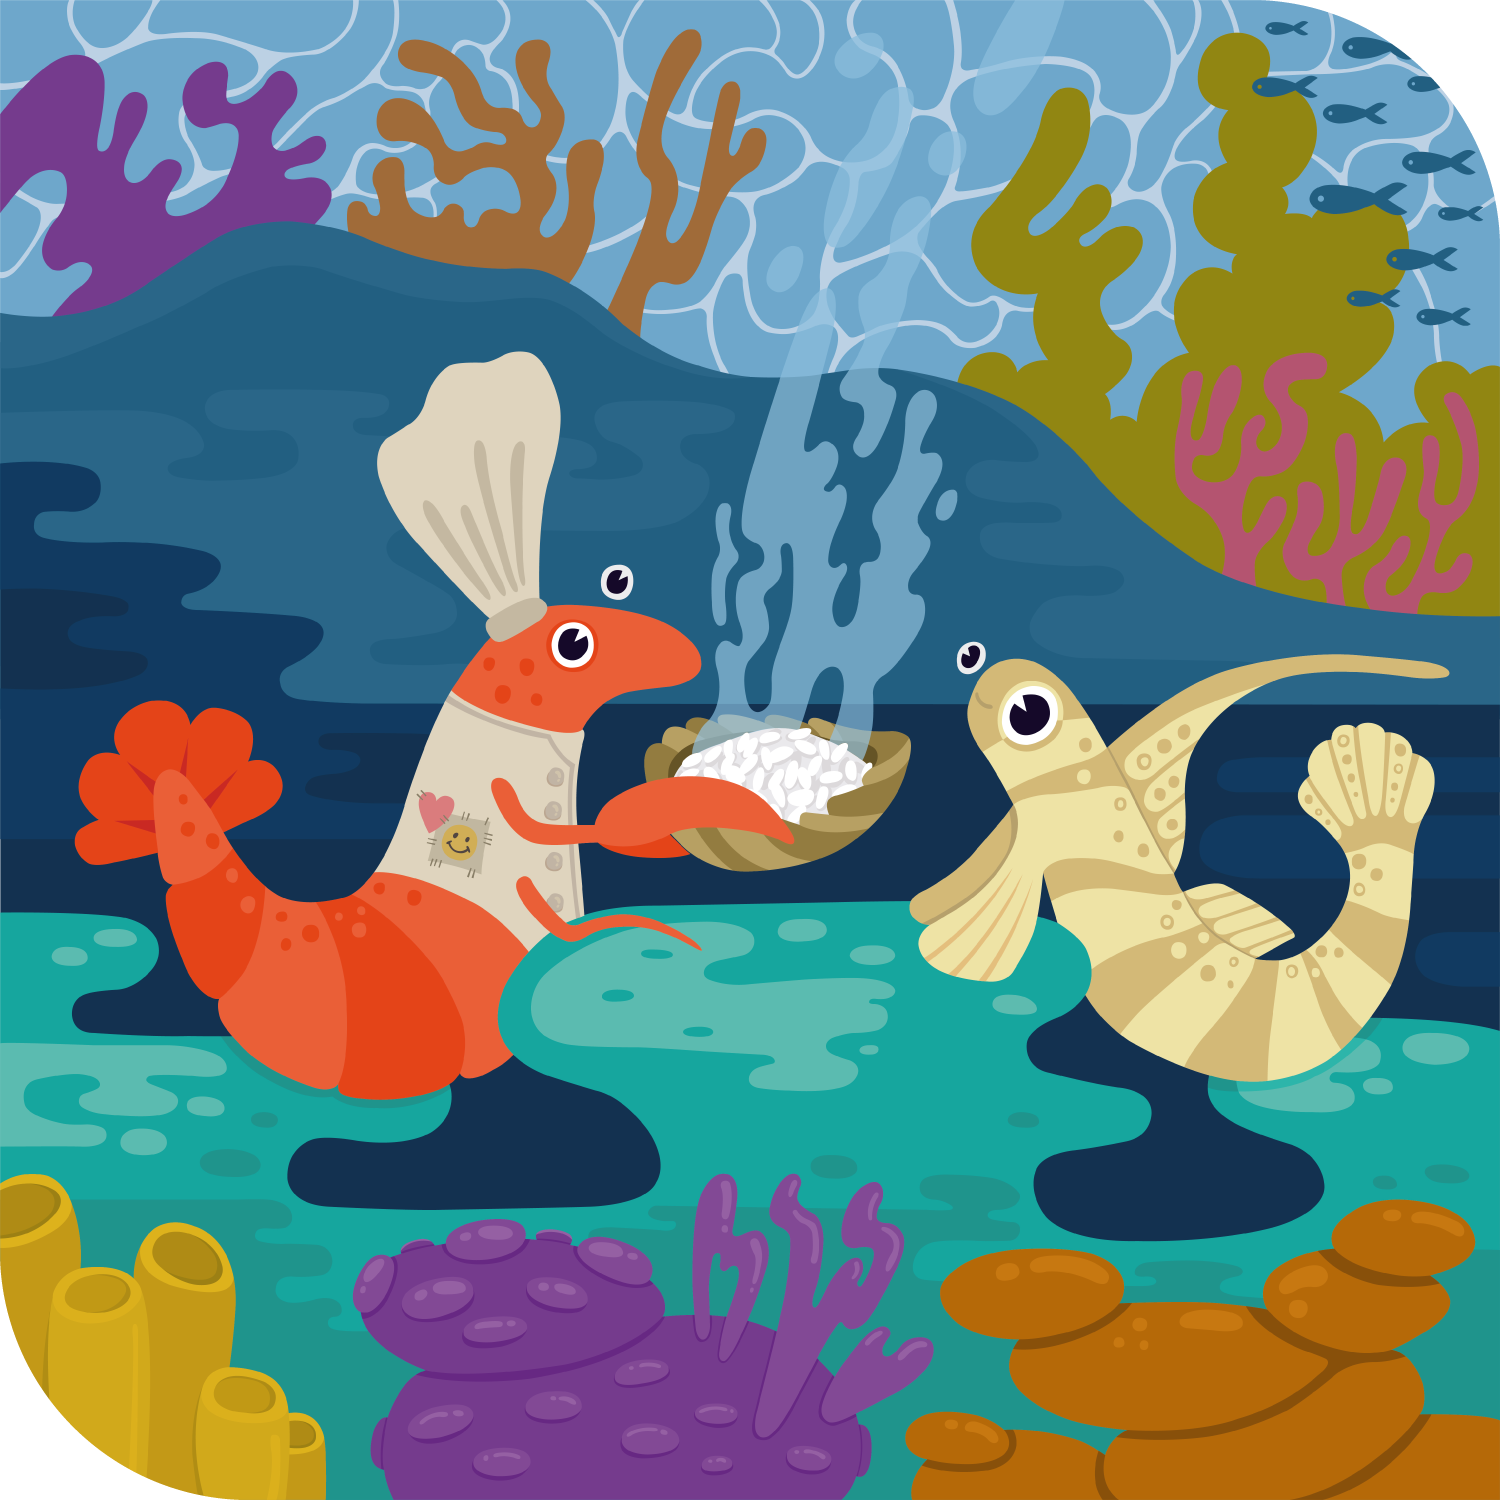
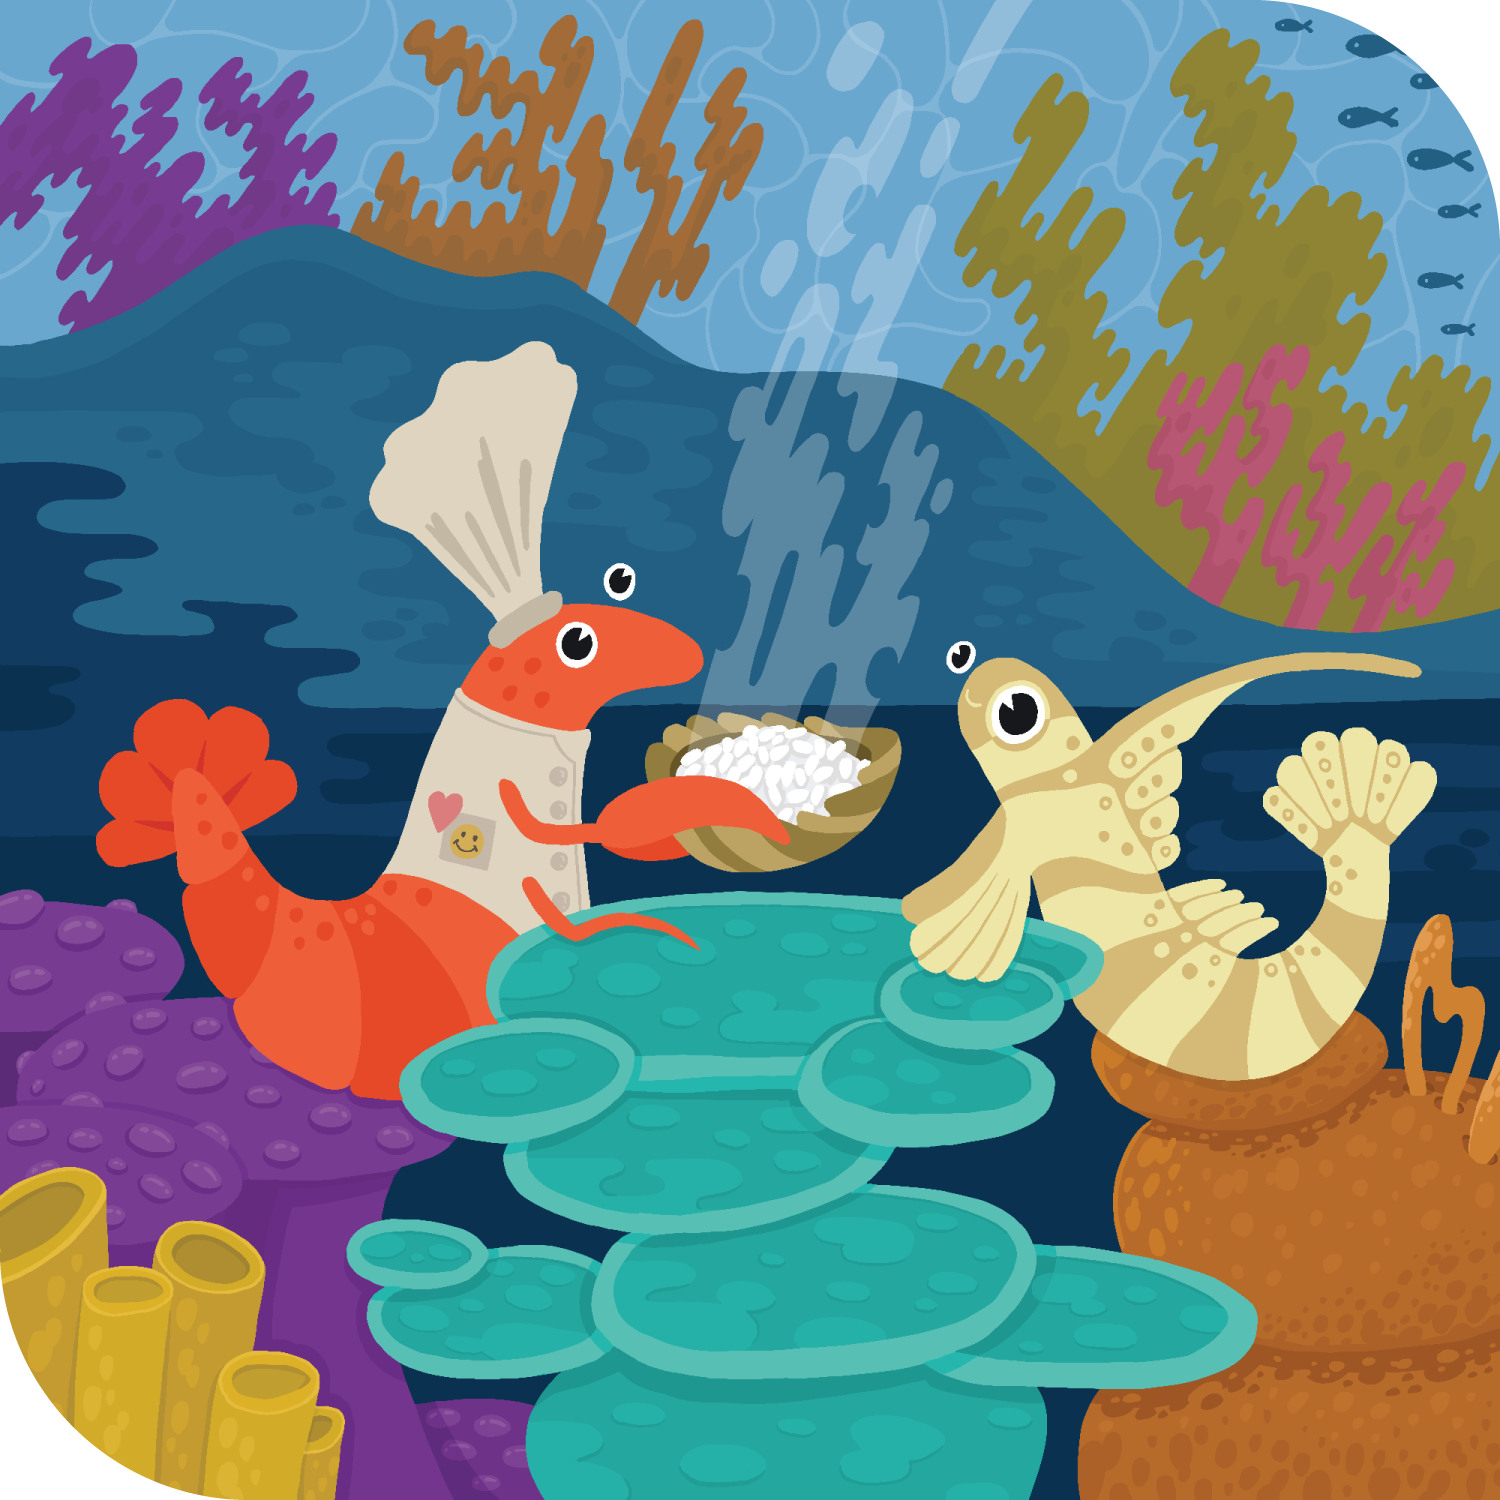
shrimp
added revamped shrimp illustration/thumbnail

diff --git a/shrimp-fried-rice.html b/shrimp-fried-rice.html
@@ -71,19 +71,19 @@
 
 
 
-        <div class="project-image-container">
+  
           <div class="project-image">
           <img
           src="assets/cases/max-beauchesne-portfolio-case-study-shrimp-process.png"
             alt="Shrimp fried rice progress and concept art"
           />
-        </div>
+        
       </div>
 
       <div class="project-image-container">
         <div class="project-image">
         <img
-        src="assets/cases/max-beauchesne-portfolio-shrimp-and-goby-illustration.jpg"
+        src="assets/cases/max-beauchesne-portfolio-case-study-shrimp-illustration.png"
           alt="A shrimp serving rice to a goby underwater"
         />
       </div>
